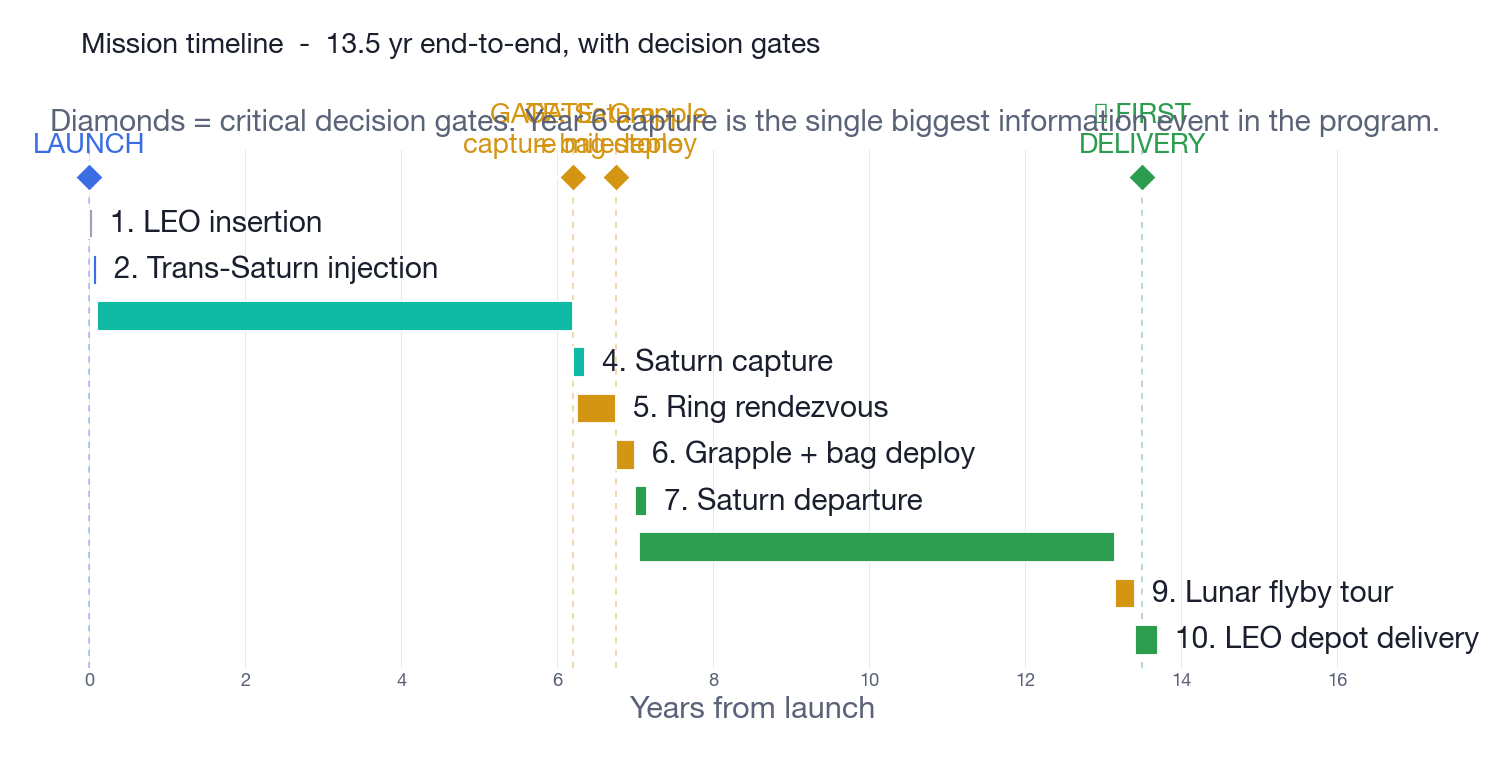
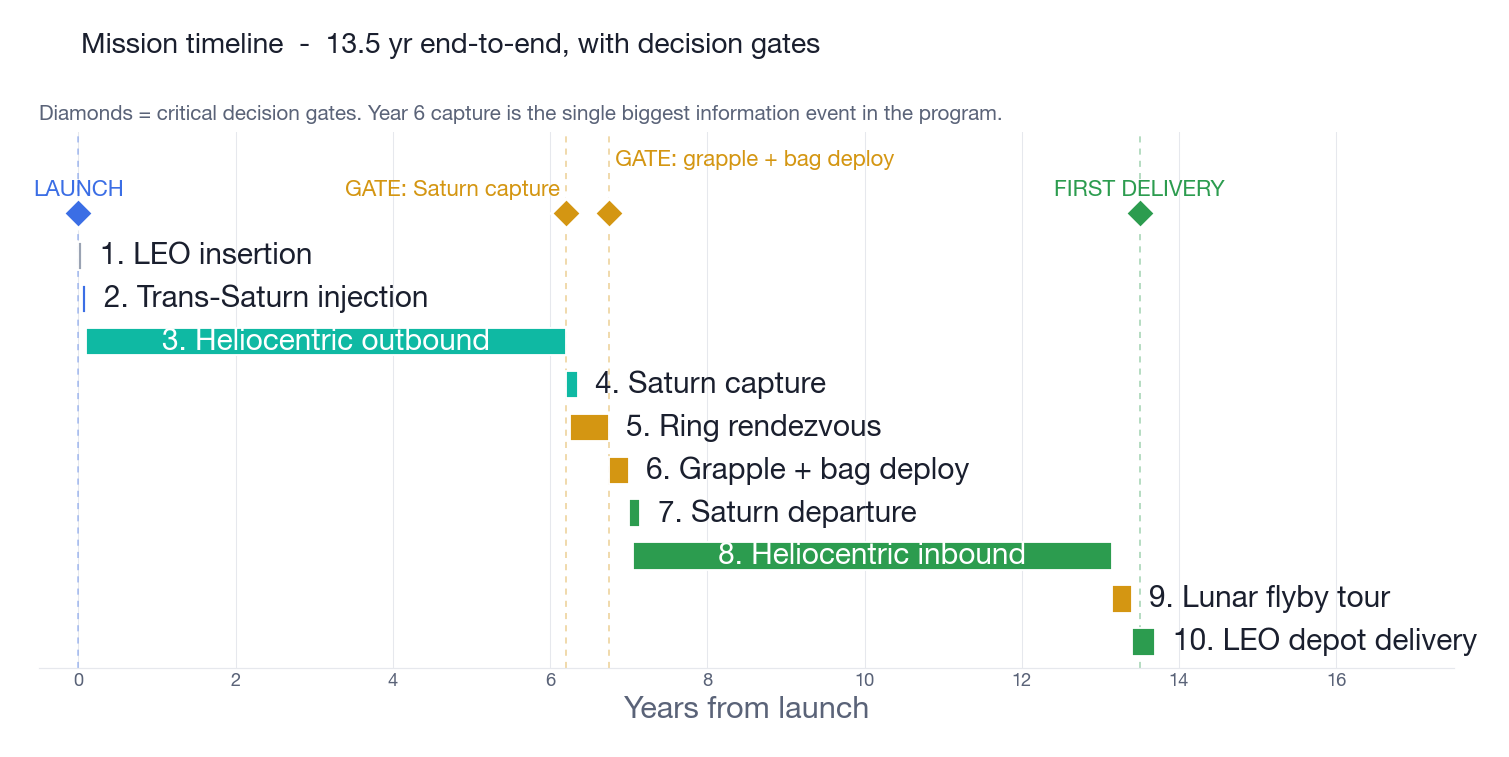
fix: timeline figure — gate-label stagger + in-bar label zorder

diff --git a/generate_conops_plots.py b/generate_conops_plots.py
@@ -1097,7 +1097,7 @@ def plot_timeline():
                 height=0.64, linewidth=1.2, zorder=4)
         if dur > 0.6:
             ax.text(start + dur/2, i, name, ha='center', va='center',
-                    fontsize=19.5, color='white', fontweight='bold')
+                    fontsize=19.5, color='white', fontweight='bold', zorder=6)
         else:
             ax.text(start + dur + 0.22, i, name, ha='left', va='center',
                     fontsize=19.5, color=DASH_FG)
@@ -1110,26 +1110,30 @@ def plot_timeline():
     ax.grid(axis='x', alpha=1.0, zorder=1)
     ax.set_axisbelow(True)
 
-    # Major decision-gate diamonds at the top
+    # Major decision-gate diamonds at the top.
+    # 2026-07 rework after owner flagged collisions: single-line labels,
+    # the two year-6 gates anchored left/right of their diamonds, delivery
+    # star glyph dropped (tofu in this font), explicit headroom in ylim.
     gate_y = -1.0
+    ax.set_ylim(len(phases) - 0.4, -2.9)
     gates = [
-        (0.0,  'LAUNCH',           DASH_BLUE),
-        (6.2,  'GATE: Saturn\ncapture milestone',  DASH_AMBER),
-        (6.75, 'GATE: Grapple\n+ bag deploy',      DASH_AMBER),
-        (13.5, '★ FIRST\nDELIVERY',                DASH_GREEN),
+        (0.0,  'LAUNCH',                      DASH_BLUE,  'center', -1.55),
+        (6.2,  'GATE: Saturn capture ',       DASH_AMBER, 'right',  -1.55),
+        (6.75, ' GATE: grapple + bag deploy', DASH_AMBER, 'left',   -2.25),
+        (13.5, 'FIRST DELIVERY',              DASH_GREEN, 'center', -1.55),
     ]
-    for x, label, color in gates:
+    for x, label, color, ha, ylab in gates:
         ax.plot(x, gate_y, marker='D', markersize=14, color=color,
                 markeredgecolor='white', markeredgewidth=2, zorder=8)
         ax.axvline(x, color=color, lw=1.0, ls=(0, (4, 4)), alpha=0.45, zorder=2)
-        ax.text(x, gate_y - 0.4, label, ha='center', va='bottom',
-                fontsize=18, color=color, fontweight='bold')
+        ax.text(x, ylab, label, ha=ha, va='center',
+                fontsize=14.5, color=color, fontweight='bold')
 
     fig.suptitle('Mission timeline  -  13.5 yr end-to-end, with decision gates',
                  fontsize=18.5, fontweight='bold', x=0.05, ha='left', y=1.0,
                  color=DASH_FG)
     ax.set_title('Diamonds = critical decision gates. Year 6 capture is the single biggest information event in the program.',
-                 fontsize=19.5, color=DASH_MUTED, loc='left', pad=12)
+                 fontsize=13.5, color=DASH_MUTED, loc='left', pad=8)
 
     plt.tight_layout()
     out = os.path.join(OUT_DIR, '07_timeline.png')